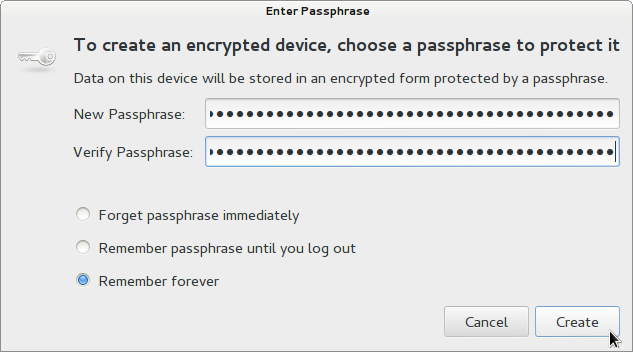
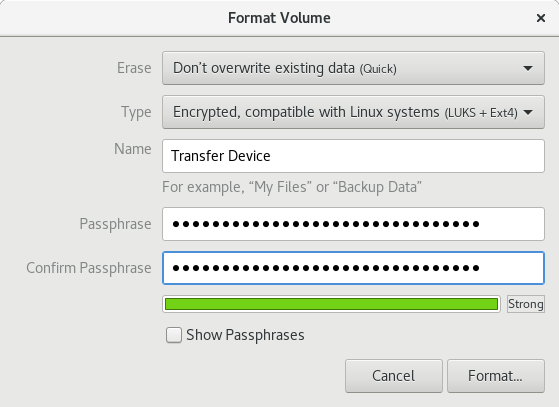
Add documentation on setting up a Data Transfer Device on Tails 3.0

diff --git a/docs/set_up_dtd.rst b/docs/set_up_dtd.rst
@@ -5,9 +5,12 @@ Journalists copy submissions from their *Journalist Workstation* to the
 *Secure Viewing Station* using the *Data Transfer Device* which can be a
 DVD or a USB drive.
 
+Select DVDs or USBs
+~~~~~~~~~~~~~~~~~~~
+
 Using DVDs as the *Data Transfer Device* provides some protection
 against certain kinds of esoteric USB-based attacks on the *Secure
-Viewing Station*, but requires that you keep blank DVDs on hand, have a
+Viewing Station*, but requires that you have blank DVDs, a
 dedicated DVD drive for the *Secure Viewing Station*, DVD drives for use
 with *Journalist Workstation*\ s, and a shredder capable of destroying
 DVDs. Unless you are certain that you need to use DVDs as the *Data
@@ -15,15 +18,24 @@ Transfer Device*, you should use USB drives instead. If you have chosen
 to use DVDs instead, there is nothing to set up now — just make sure
 that you have all the hardware on hand.
 
+USB Data Transfer Device Configuration
+~~~~~~~~~~~~~~~~~~~~~~~~~~~~~~~~~~~~~~
+
 The easiest and recommended option for a *Data Transfer Device* is a USB
 drive. If you have a large team of journalists you may want to :doc:`create
 several <onboarding>` of these. Here we'll just walk through
-making one *Data Transfer Device*. Note: this process will destroy all
-data currently on the drive. You should probably use a new USB drive.
+making one *Data Transfer Device*.
 
-First, label your USB drive “SecureDrop Data Transfer Device”. Open the
-*Applications* menu in the top left corner and select |Accessories icon|
-*Accessories* then |Disk Utility icon| *Disk Utility*.
+Create a USB Data Transfer Device
+---------------------------------
+
+.. note:: This process will destroy all data currently on the drive.
+
+First, label your USB drive “SecureDrop Data Transfer Device”.
+
+On the *Secure Viewing Station*, open the
+**Applications** menu in the top left corner and select
+**Utilities** then |Disk Utility icon| **Disks**:
 
 |screenshot of the Applications menu in Tails, highlighting Disk
 Utility|
@@ -31,59 +43,58 @@ Utility|
 Connect your *Data Transfer Device* then pick your device in the menu on
 the left. Since we're going to destroy all the data on this drive, it's
 important that you pick the right drive. It should be named something
-that sounds similar to the manufacturer's label on the ouside of the
+that sounds similar to the manufacturer's label on the outside of the
 drive, and it will only appear after you plug it in. Double check that
-you have clicked on the correct drive.
+you have clicked on the correct drive:
 
 |screenshot of Disk Utility application|
 
-Once you're sure you have the right drive, click *Format Drive*. The
-default *Scheme* of *Master Boot Record* is fine. Click *Format*, then
-confirm by clicking *Format* again. Under the *Volumes* heading towards
-the bottom of the right pane of *Disk Utility* click the large grey bar
-that represents your newly-formatted drive and then click *Create
-Partition* below.
+Once you're sure you have the right drive, click the interlocking gears, then
+**Format Partition...**.
+
+.. note:: If there are multiple existing partitions on the drive, you should
+          first click the "-" icon on the left of the interlocking gears icon to
+          delete each partition, and then create another partition that fills
+          all free space with the options as shown below.
 
 |screenshot of the menu to create a new partition in the Disk Utility
 application|
 
-Give the new partition on your *Data Transfer Device* a descriptive name
-like “Transfer Device” and check the *Encrypt underlying device* box,
-then click *Create* to continue. You will now be prompted to create a
-passphrase.
+Give the partition on your *Data Transfer Device* a descriptive name
+like “Transfer Device” and select the options as in the following screenshot:
 
-|screenshot of passphrase selection promprt in the Disk Utility
+|screenshot of passphrase selection prompt in the Disk Utility
 application|
 
 You won't need to memorize this passphrase or type it more than a few
-times, so feel free to make a good long one. Pick the *Remember forever*
-option — this will save the passphrase securely on *Secure Viewing
-Station*'s persistent volume. Click *Create* to continue. After a few
-seconds, you new *Data Transfer Device* should be ready for use.
-
+times, so feel free to make a good long one. Then click **Format** to continue.
+The Disks utility will ask you if you are sure: click **Format** to continue.
+After a few seconds, you new *Data Transfer Device* should be ready for use.
 If you haven't already, make sure to label it.
 
---------------
+Set up the USB Data Transfer Device on each workstation
+-------------------------------------------------------
 
-Since a *Data Transfer Device* is used to move files from a *Journalist
-Workstation* to the *Secure Viewing Station*, you'll also need to enter
-the passphrase on each *Journalist Workstation* you use this *Data
-Transfer Device* with. When you connect the *Data Transfer Device* to a
-new *Journalist Workstation* for the first time, you'll be prompted to
-enter the passphrase to unlock the encrypted disk.
+On each *Journalist Workstation* and *Secure Viewing Station* you'd like to use
+the *Data Transfer Device* you will securely save the passphrase on the
+persistent volume. This ensures that you will only have to type in the
+passphrase once during initial set up and it will be automatic thereafter:
 
-|image of the disk unlock prompt on Tails|
+  #. Insert the Data Transfer Device
+  #. Go to **Places ▸ Computer** and click the USB drive in the left column.
+  #. Type in the passphrase and click "Remember Password":
 
-Make sure to select the *Remember forever* option before entering your
-passphrase. As in the *Disk Utility* application this will securely save
-the passphrase on the persistent volume of that *Journalist
-Workstation*, ensuring that you only ever have to type in the passphrase
-once on any particular machine.
+  |image of the disk unlock prompt on Tails|
 
-.. |Accessories icon| image:: images/icons/accessories.png
+Remember to first do this on the *Secure Viewing Station* you just used to
+create the device!
+
+After you've done this on each computer you wish to use the *Data Transfer
+Device* with, you're good to go!
+
 .. |Disk Utility icon| image:: images/icons/disk-utility.png
 .. |screenshot of the Applications menu in Tails, highlighting Disk Utility| image:: images/screenshots/applications_accessories_disk-utility.png
 .. |screenshot of Disk Utility application| image:: images/screenshots/disk-utility.png
 .. |screenshot of the menu to create a new partition in the Disk Utility application| image:: images/screenshots/create-partition.png
-.. |screenshot of passphrase selection promprt in the Disk Utility application| image:: images/screenshots/create-passphrase.png
+.. |screenshot of passphrase selection prompt in the Disk Utility application| image:: images/screenshots/create-passphrase.png
 .. |image of the disk unlock prompt on Tails| image:: images/screenshots/passphrase-keyring.png
